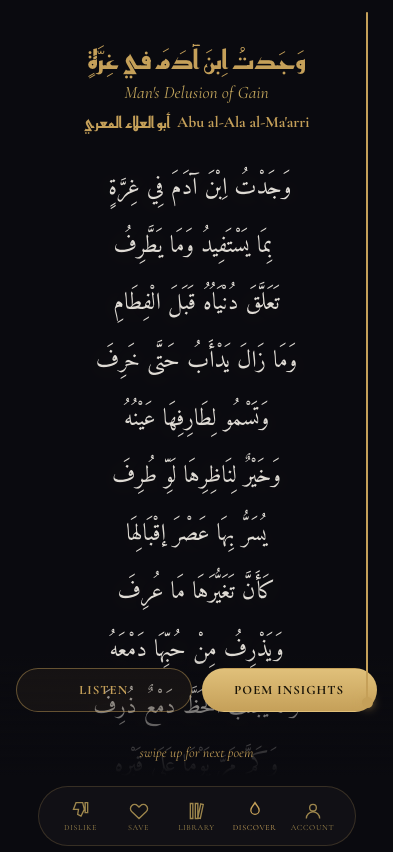
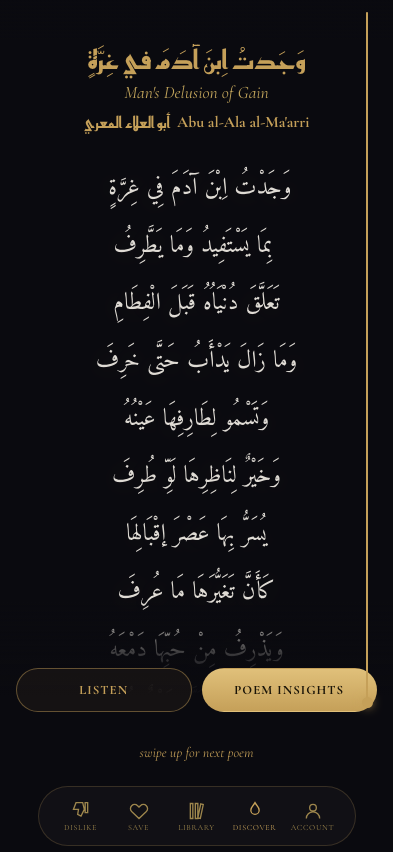
docs(reader): correct landing-blank figures to chrome-derived bands
The independence numbers were measured before the bands became derived
from the chrome actually painted. Re-measured on the same qasida:
A - Recede frees 158px and its landing blank goes 436 -> 615px;
D - Frame takes the same blank to 18px.

diff --git a/design-review/reader-layouts/README.md b/design-review/reader-layouts/README.md
@@ -52,8 +52,8 @@ open for verses that have not been revealed yet. At 393×852 with a 10-line poem
 a **448px window containing 109px of ink: 339px of reserved, permanently blank rows**
 sitting in the middle of the screen.
 
-But raising capacity alone makes landing *worse*. `A · Recede` frees 112px of chrome and
-the blank goes from 555px to **674px**, because a taller empty window is still empty. So:
+But raising capacity alone makes landing *worse*. `A · Recede` frees 158px of chrome and
+the blank goes from 436px to **615px**, because a taller empty window is still empty. So:
 
 - **Capacity** (how many verse rows could be on screen) is what layout controls.
 - **Blank on landing** is owned by the reveal mechanic, which shows one verse at a time.
@@ -91,7 +91,7 @@ and returns on a bottom-edge touch or when the reveal rests.
 **Buys** +2 rows (8 → 10), the single biggest capacity win available without restructuring.
 **Trades** the nav stops being ambient. Save/Library/Discover become things you must know
 are there. On a discovery-driven app that is a real cost, and it makes the landing blank
-worse (555 → 674px) unless paired with D.
+worse (436 → 615px) unless paired with D.
 
 ### B · Flow — the poem is a column, not a window
 
@@ -128,7 +128,7 @@ The window is only as tall as the verses actually revealed, and grows as you adv
 the reveal passes what fits, it scrolls exactly like today. Bands trimmed 136/111 → 108/96.
 `dvh` instead of `vh`.
 
-**Buys** the reserved blank goes 555px → **18px**, and the poem sits in the optical centre
+**Buys** the reserved blank goes 436px → **18px**, and the poem sits in the optical centre
 from the first verse instead of clinging to the top of a tall void. Cheapest to ship: no
 new gesture, no chrome behaviour, no change to the reveal, scrubber or swipe. A sizing fix.
 **Trades** the window changes height as you read, which is motion the current design does
